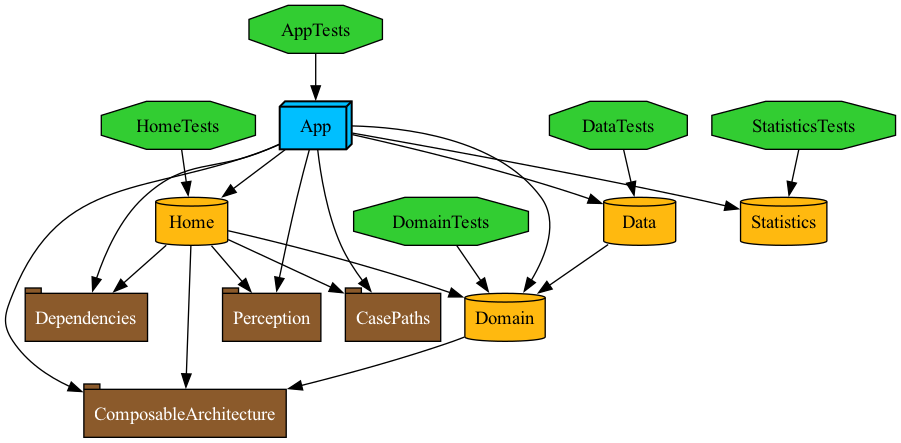
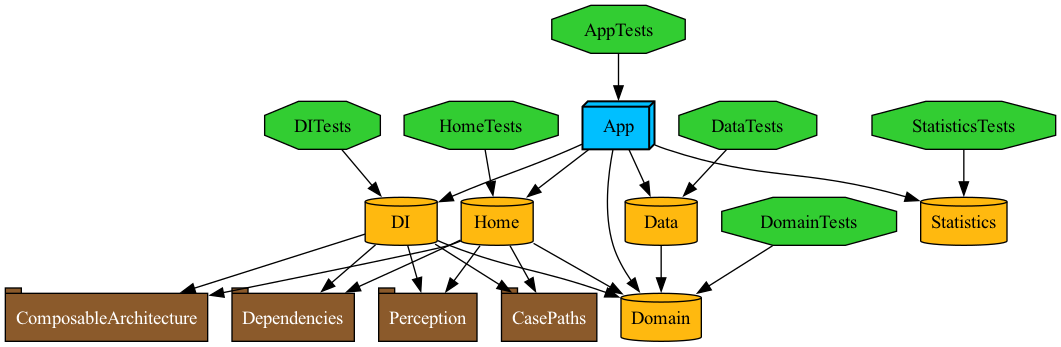
chore: 모듈 의존성 수정, DI 모듈 생성

diff --git a/DI/Project.swift b/DI/Project.swift
@@ -1,35 +1,34 @@
 import ProjectDescription
 
 let project = Project(
-    name: "Home",
+    name: "DI",
     packages: [
         .package(url: "https://github.com/pointfreeco/swift-composable-architecture", .upToNextMajor(from: "1.11.0"))
     ],
     targets: [
         .target(
-            name: "Home",
+            name: "DI",
             destinations: .iOS,
             product: .framework,
-            bundleId: "com.jalynneyoon.Home",
+            bundleId: "com.jalynneyoon.DI",
             infoPlist: .default,
-            sources: ["Home/Sources/**"],
-            resources: ["Home/Resources/**"],
+            sources: ["DI/Sources/**"],
             dependencies: [
+                .project(target: "Domain", path: "../Domain"),
                 .package(product: "ComposableArchitecture"),
                 .package(product: "Dependencies"),
                 .package(product: "CasePaths"),
                 .package(product: "Perception"),
-                .project(target: "Domain", path: "../../Domain"),
             ]
         ),
         .target(
-            name: "HomeTests",
+            name: "DITests",
             destinations: .iOS,
             product: .unitTests,
-            bundleId: "io.tuist.HomeTests",
+            bundleId: "com.jalynneyoon.DITests",
             infoPlist: .default,
-            sources: ["Home/Tests/**"],
-            dependencies: [.target(name: "Home")]
+            sources: ["DI/Tests/**"],
+            dependencies: [.target(name: "DI")]
         ),
     ]
 )

diff --git a/Domain/Project.swift b/Domain/Project.swift
@@ -2,9 +2,6 @@ import ProjectDescription
 
 let project = Project(
     name: "Domain",
-    packages: [
-        .package(url: "https://github.com/pointfreeco/swift-composable-architecture", .upToNextMajor(from: "1.11.0"))
-    ],
     targets: [
         .target(
             name: "Domain",
@@ -21,9 +18,7 @@ let project = Project(
             ),
             sources: ["Domain/Sources/**"],
             resources: [],
-            dependencies: [
-                .package(product: "ComposableArchitecture")
-            ]
+            dependencies: []
         ),
         .target(
             name: "DomainTests",

diff --git a/App/Project.swift b/App/Project.swift
@@ -23,10 +23,7 @@ let project = Project(
                 .project(target: "Statistics", path: "../Features/Statistics"),
                 .project(target: "Data", path: "../Data"),
                 .project(target: "Domain", path: "../Domain"),
-                .package(product: "ComposableArchitecture"),
-                .package(product: "Dependencies"),
-                .package(product: "CasePaths"),
-                .package(product: "Perception"),
+                .project(target: "DI", path: "../DI"),
             ]
         ),
         .target(

diff --git a/DI/Tuist/Package.swift b/DI/Tuist/Package.swift
@@ -1,0 +1,19 @@
+// swift-tools-version: 5.9
+import PackageDescription
+
+#if TUIST
+    import ProjectDescription
+
+    let packageSettings = PackageSettings(
+        productTypes: [
+            "ComposableArchitecture": .framework,
+        ]
+    )
+#endif
+
+let package = Package(
+    name: "DIPackages",
+    dependencies: [
+        .package(url: "https://github.com/pointfreeco/swift-composable-architecture", from: "1.11.0"),
+    ]
+)

diff --git a/DI/DI/Tests/DITests.swift b/DI/DI/Tests/DITests.swift
@@ -1,0 +1,8 @@
+import Foundation
+import XCTest
+
+final class DITests: XCTestCase {
+    func test_twoPlusTwo_isFour() {
+        XCTAssertEqual(2+2, 4)
+    }
+}

diff --git a/App/App/Sources/DotBudgetApp.swift b/App/App/Sources/DotBudgetApp.swift
@@ -3,6 +3,7 @@ import SwiftData
 import ComposableArchitecture
 import Domain
 import Data
+import DI
 import Dependencies
 import Home
 

diff --git a/Features/Home/Home/Sources/AddExpense/AddExpenseReducer.swift b/Features/Home/Home/Sources/AddExpense/AddExpenseReducer.swift
@@ -1,6 +1,7 @@
 import ComposableArchitecture
 import Foundation
 import Domain
+import DI
 
 @Reducer
 struct AddExpenseReducer {
